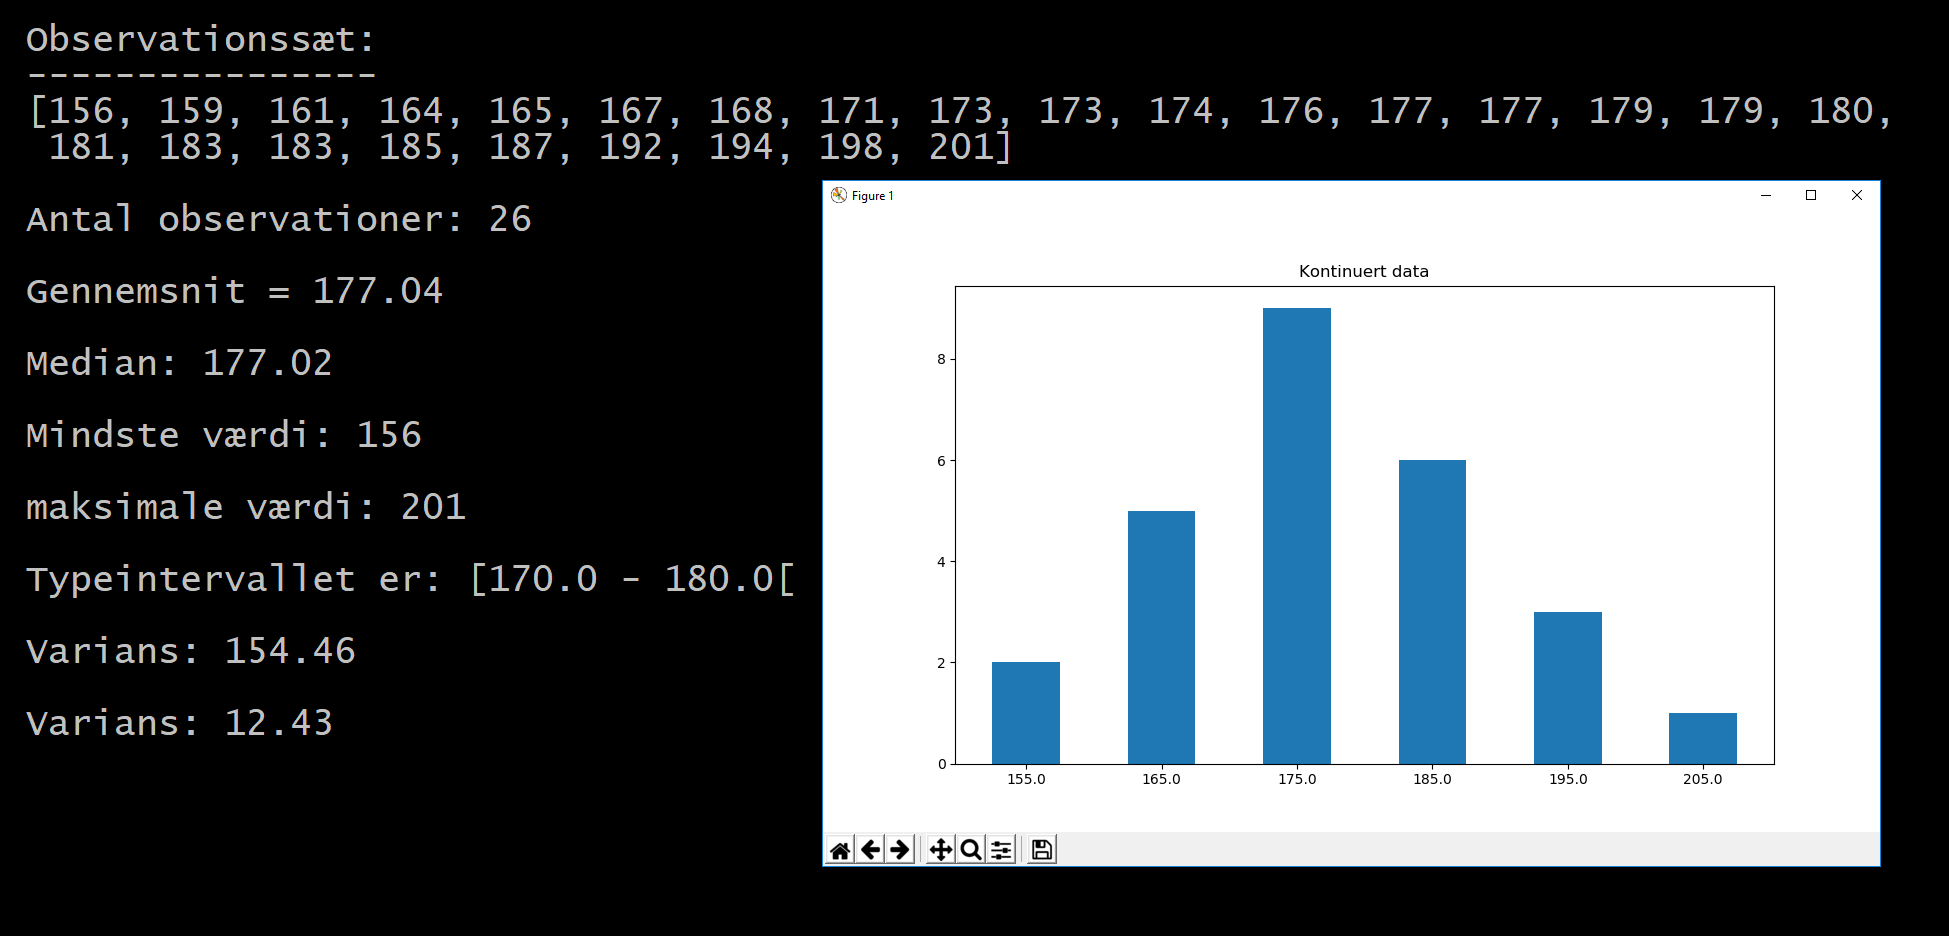
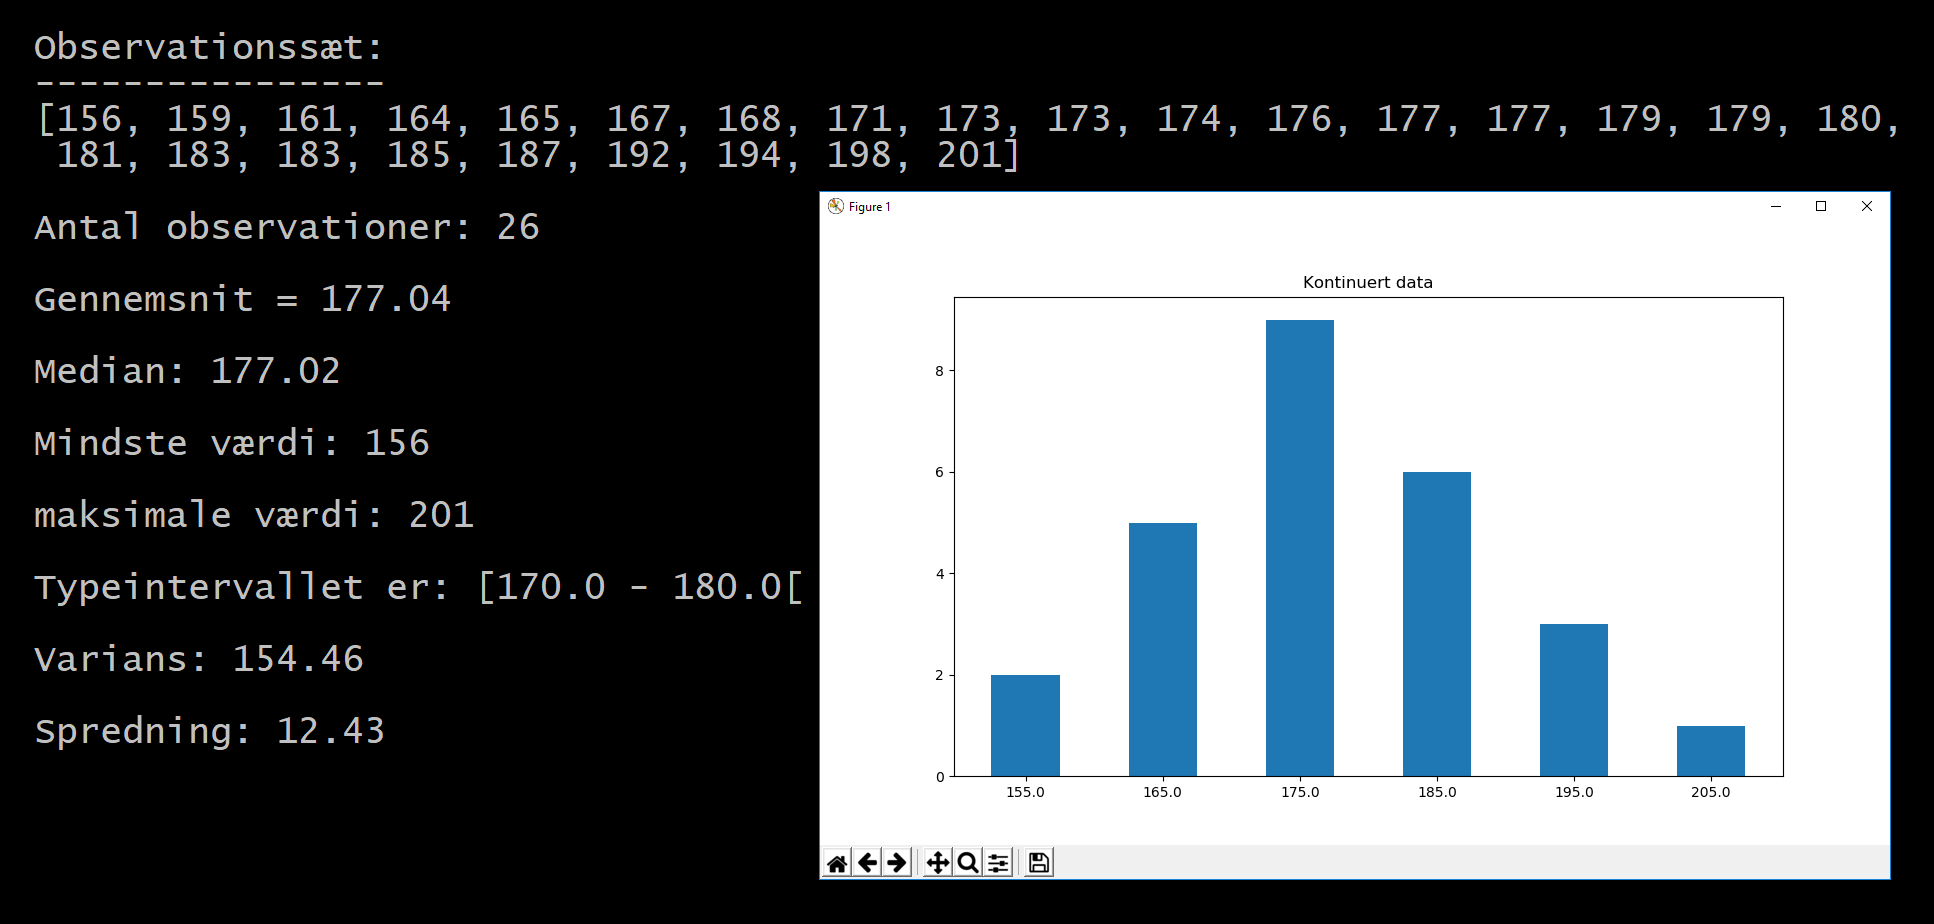
1

diff --git a/python/python09_statistik.html b/python/python09_statistik.html
@@ -398,7 +398,7 @@ Værden for den 100. percentil er: 12.0
 	#Varians
 	print("\nVarians: {0}".format(round(st.variance(x_ny),2)))
 	#Spredning
-	print("\nVarians: {0}".format(round(st.stdev(x_ny),2)))
+	print("\nSpredning: {0}".format(round(st.stdev(x_ny),2)))
 			
 	# Finder unikke værdier
 	x_unik = np.unique(x_ny)

diff --git a/python/programmer/Valg og funktioner/Egne funktioner/kontinuert_data.py b/python/programmer/Valg og funktioner/Egne funktioner/kontinuert_data.py
@@ -39,7 +39,7 @@ except:
 #Varians
 print("\nVarians: {0}".format(round(st.variance(x_ny),2)))
 #Spredning
-print("\nVarians: {0}".format(round(st.stdev(x_ny),2)))
+print("\nSpredning: {0}".format(round(st.stdev(x_ny),2)))
 		
 # Finder unikke værdier
 x_unik = np.unique(x_ny)
